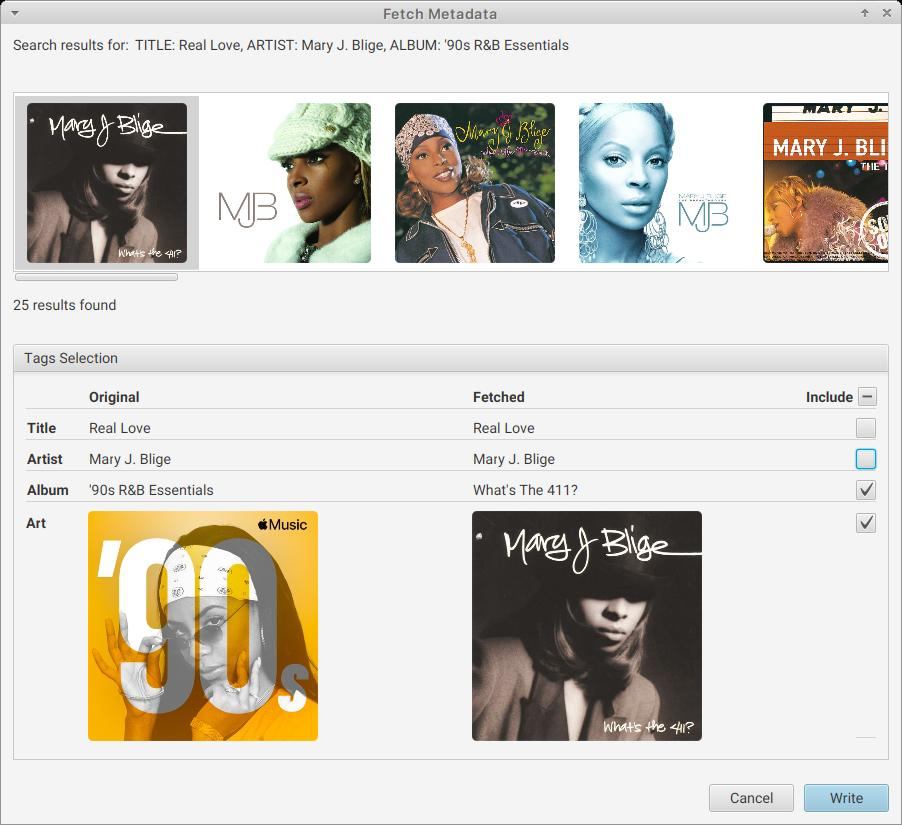
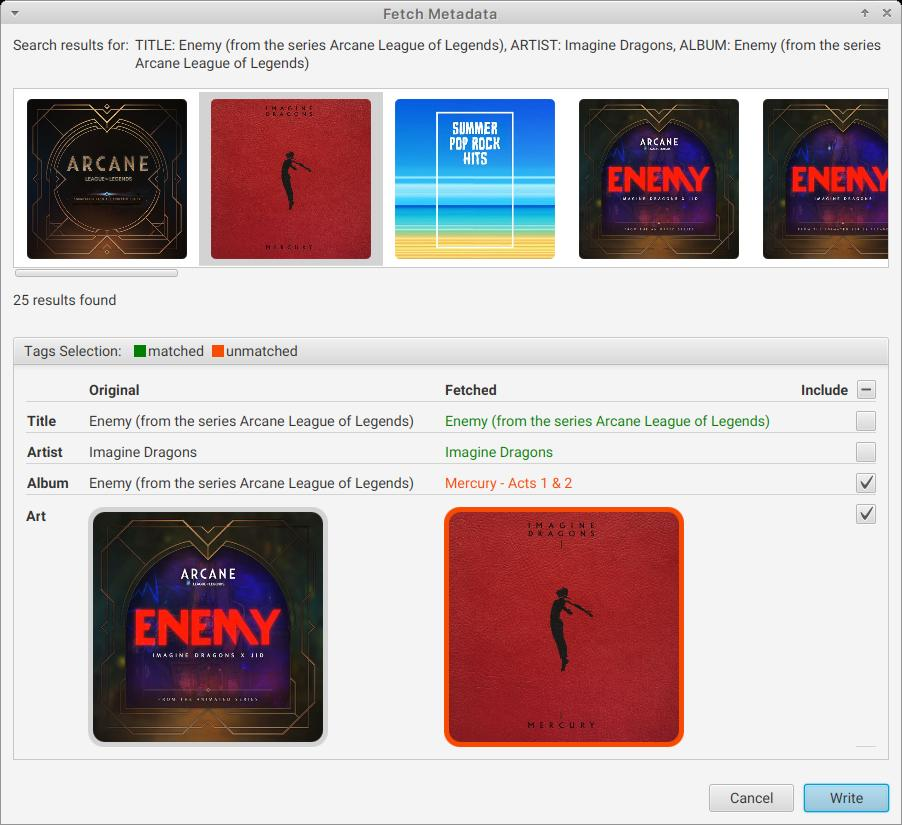
#8

diff --git a/src/main/resources/com/github/idelstak/metadata/views/styles.css b/src/main/resources/com/github/idelstak/metadata/views/styles.css
@@ -92,3 +92,43 @@
     -fx-wrap-text: true;
     -fx-padding: 6px 4px
 }
+.legend-box {
+    -fx-padding: 0 0 0 6px;
+    -fx-alignment: center-left;
+    -fx-spacing: 2px
+}
+.legend-square-matched {
+    -fx-fill: green
+}
+.legend-square-unmatched {
+    -fx-fill: #f74b03
+}
+.fetch-field {
+    -fx-text-fill: #f74b03
+}
+.fetch-field:matched {
+    -fx-text-fill: green
+}
+.art-pane, .fetch-art-pane {
+    -fx-insets: 6px 0 0 0;
+    -fx-background-radius: 16px;
+    -fx-pref-width: 240px;
+    -fx-pref-height: 240px;
+    -fx-min-width: 240px;
+    -fx-min-height: 240px;
+    -fx-max-width: 240px;
+    -fx-max-height: 240px
+}
+.art-pane {
+    -fx-background-color: lightgray
+}
+.art-pane .avatar-view, .fetch-art-pane .avatar-view {
+    -fx-avatar-arc-size: 24px;
+    -fx-avatar-size: 230px
+}
+.fetch-art-pane {
+    -fx-background-color: #f74b03
+}
+.fetch-art-pane:matched {
+    -fx-background-color: green
+}

diff --git a/src/main/java/com/github/idelstak/metadata/views/MetadataFetchViewController.java b/src/main/java/com/github/idelstak/metadata/views/MetadataFetchViewController.java
@@ -9,6 +9,7 @@ import javafx.beans.property.*;
 import javafx.beans.value.*;
 import javafx.collections.ListChangeListener.*;
 import javafx.collections.*;
+import javafx.css.*;
 import javafx.event.*;
 import javafx.fxml.*;
 import javafx.scene.control.*;
@@ -28,6 +29,7 @@ import static javafx.collections.FXCollections.*;
 public class MetadataFetchViewController extends FxmlController {
 
     private static final Logger LOG = LoggerFactory.getLogger(MetadataFetchViewController.class);
+    private static final PseudoClass MATCHED = PseudoClass.getPseudoClass("matched");
     private final ObjectProperty<MetadataQuery> query;
     private final ObservableList<TaggedAudioFile> tagResults;
     private final ObjectProperty<TaggedAudioFile> taggedAudioFile;
@@ -76,6 +78,8 @@ public class MetadataFetchViewController extends FxmlController {
     private CheckBox includeAlbumCheck;
     @FXML
     private CheckBox includeAllCheck;
+    @FXML
+    private StackPane newArtViewPane;
 
     public MetadataFetchViewController() {
         query = new SimpleObjectProperty<>();
@@ -121,6 +125,38 @@ public class MetadataFetchViewController extends FxmlController {
         newArtistLabel.textProperty().bind(selectedTaggedAudioFile.map(TaggedAudioFile::artist));
         newAlbumLabel.textProperty().bind(selectedTaggedAudioFile.map(TaggedAudioFile::album));
         newArtView.imageProperty().bind(selectedTaggedAudioFile.map(TaggedAudioFile::art));
+
+        selectedTaggedAudioFile.addListener((_, _, fetchedFile) -> {
+            runLater(() -> {
+                TaggedAudioFile originalFile = this.taggedAudioFile.get();
+
+                String fetchedText = fetchedFile != null ? fetchedFile.title() : "";
+                String originalText = originalFile != null ? originalFile.title() : "";
+                boolean match = fetchedText.equalsIgnoreCase(originalText);
+                newTitleLabel.pseudoClassStateChanged(MATCHED, match);
+                includeTitleCheck.setSelected(!match);
+
+                fetchedText = fetchedFile != null ? fetchedFile.artist() : "";
+                originalText = originalFile != null ? originalFile.artist() : "";
+                match = fetchedText.equalsIgnoreCase(originalText);
+                newArtistLabel.pseudoClassStateChanged(MATCHED, match);
+                includeArtistCheck.setSelected(!match);
+
+                fetchedText = fetchedFile != null ? fetchedFile.album() : "";
+                originalText = originalFile != null ? originalFile.album() : "";
+                match = fetchedText.equalsIgnoreCase(originalText);
+                newAlbumLabel.pseudoClassStateChanged(MATCHED, match);
+                includeAlbumCheck.setSelected(!match);
+
+                Image fetchedArt = fetchedFile != null ? fetchedFile.art() : null;
+                Image originalArt = originalFile != null ? originalFile.art() : null;
+                match = new ImageComparator(fetchedArt, originalArt).equals();
+                newArtViewPane.pseudoClassStateChanged(MATCHED, match);
+                includeArtCheck.setSelected(!match);
+
+                artResultsTable.requestFocus();
+            });
+        });
 
         // Bind allSelected to true if all individual checkboxes are selected
         allIncludeChecksSelected.bind(Bindings.createBooleanBinding(() -> includeTitleCheck.isSelected() &&
@@ -273,6 +309,7 @@ public class MetadataFetchViewController extends FxmlController {
     @FXML
     private void cancelFetch(ActionEvent actionEvent) {
         cancelFetch.set(true);
+        runLater(() -> artResultsTable.requestFocus());
         actionEvent.consume();
     }
 

diff --git a/src/main/java/com/github/idelstak/metadata/components/ImageComparator.java b/src/main/java/com/github/idelstak/metadata/components/ImageComparator.java
@@ -1,0 +1,53 @@
+package com.github.idelstak.metadata.components;
+
+import javafx.scene.image.*;
+
+import java.nio.*;
+
+public class ImageComparator {
+
+    private final Image img1;
+    private final Image img2;
+
+    public ImageComparator(Image img1, Image img2) {
+        this.img1 = img1;
+        this.img2 = img2;
+    }
+
+    public boolean equals() {
+        if (img1 == img2) {
+            return true;
+        }
+
+        if (img1 == null || img2 == null) {
+            return false;
+        }
+
+        if (img1.getWidth() != img2.getWidth() || img1.getHeight() != img2.getHeight()) {
+            return false;
+        }
+
+        PixelReader reader1 = img1.getPixelReader();
+        PixelReader reader2 = img2.getPixelReader();
+
+        int width = (int) img1.getWidth();
+        int height = (int) img1.getHeight();
+
+        WritablePixelFormat<ByteBuffer> format = WritablePixelFormat.getByteBgraInstance();
+        byte[] buffer1 = new byte[width * 4];
+        byte[] buffer2 = new byte[width * 4];
+
+        for (int y = 0; y < height; y++) {
+            reader1.getPixels(0, y, width, 1, format, buffer1, 0, width * 4);
+            reader2.getPixels(0, y, width, 1, format, buffer2, 0, width * 4);
+
+            for (int x = 0; x < width * 4; x++) {
+                if (buffer1[x] != buffer2[x]) {
+                    return false;
+                }
+            }
+        }
+
+        return true;
+    }
+}

diff --git a/src/main/java/com/github/idelstak/metadata/model/TaggedAudioFile.java b/src/main/java/com/github/idelstak/metadata/model/TaggedAudioFile.java
@@ -1,5 +1,6 @@
 package com.github.idelstak.metadata.model;
 
+import com.github.idelstak.metadata.components.*;
 import javafx.beans.property.*;
 import javafx.embed.swing.*;
 import javafx.scene.image.*;
@@ -88,7 +89,7 @@ public class TaggedAudioFile {
                Objects.equals(album, that.album) &&
                Objects.equals(artist, that.artist) &&
                Objects.equals(fileName, that.fileName) &&
-               Objects.equals(art, that.art);
+               new ImageComparator(art.get(), that.art.get()).equals();
     }
 
     @Override
